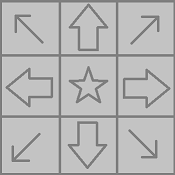
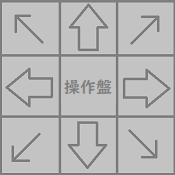
enemy作業

Changed region(s): [[0.3714, 0.3714, 0.6571, 0.6]]

diff --git a/app/src/main/cpp/native-lib.cpp b/app/src/main/cpp/native-lib.cpp
@@ -4,6 +4,8 @@
 #include "enemy.h"
 #include "vector"
 #include "unistd.h"
+#include "player.h"
+
 std::vector<enemy> en;
 int kyara[96];
 int screen=0;
@@ -19,14 +21,16 @@ int android_main( void )
 
     int exit;
     void sce();
+    player player1;
     int right;
     int taskbar;
-int vect
+    int vect;
     int levels;
     int easy;
     int normal;
     int hard;
     int level;
+    int fonts[63];
     SetGraphMode( 1280 , 720, 32,60 ) ;
     // ＤＸライブラリの初期化
     if( DxLib_Init() < 0 ) return -1 ;
@@ -35,7 +39,7 @@ int vect
     easy=LoadGraph("easy.png");
     normal=LoadGraph("normal.png");
     hard=LoadGraph("hardl.png");
-    vect=LoadGraph("vector.png");
+    vect=LoadGraph("vector2.png");
     exit=LoadGraph("exit.bmp");
     right=LoadGraph("right.bmp");
     title=LoadGraph("title.bmp");
@@ -43,9 +47,10 @@ int vect
     taskbar=LoadGraph("taskbar.png");
     start_button=LoadGraph("start.bmp");
     LoadDivGraph("kyara.bmp",96,12,8,48,48,kyara);
+    LoadDivGraph("font2.png",64,16,4,11,18,fonts);
     // 描画先を裏画面にする
     SetDrawScreen( DX_SCREEN_BACK ) ;
-
+    player1=player(kyara[38]);
     // メインループ
     long time;
     long nowtime;
@@ -120,18 +125,24 @@ int vect
                 }
             }
         }else if(screen==2){
+            SetFontSize(50);
+            int FontHandle = CreateFontToHandle( NULL, 16, 0 ) ;
+            AddFontImageToHandle(FontHandle,"0",fonts[47],0,0,16) ;
 
             std::thread th(sce);
             th.detach();
                 while(ProcessMessage() == 0&&screen==2){
-                    frames++;
-                    ClearDrawScreen();
-                    DrawGraph(0, 0, back, true);
-                    DrawRotaGraphF(1106,360,1,0,taskbar,false);
-                    DrawGraph(0, 0, vect, true);
-                    for(int i=0;i<en.size();i++){
-                        en[i].control();
-                    }
+                     frames++;
+                     ClearDrawScreen();
+                     DrawGraph(0, 0, back, true);
+                     player1.control();
+                     DrawRotaGraphF(1106,360,1,0,taskbar,false);
+                    DrawGraph(1000, 500, vect, true);
+                    SetFontSize(70);
+                      DrawFormatStringToHandle(1000,100,GetColor(255,255,255),FontHandle,"%d0000",player1.score);
+                   for(int i=0;i<en.size();i++){
+                         en[i].control();
+                     }
                     ScreenFlip();
 
                 }
@@ -144,7 +155,12 @@ int vect
 }
 void sce(){
     usleep(1000*1000);
-    en.push_back(enemy(50,50,0,kyara[18]));
-    usleep(2000*1000);
-    screen=0;
+    en.push_back(enemy(500,-50,0,kyara[19]));
+    usleep(500*1000);
+    en.push_back(enemy(500,-50,0,kyara[19]));
+    usleep(500*1000);
+    en.push_back(enemy(500,-50,0,kyara[19]));
+    usleep(500*1000);
+    en.push_back(enemy(500,-50,0,kyara[19]));
+    //screen=0;
 }

diff --git a/app/src/main/cpp/player.cpp b/app/src/main/cpp/player.cpp
@@ -1,0 +1,70 @@
+//
+// Created by spyk4 on 2020/11/06.
+//
+
+#include "DxLib.h"
+#include "player.h"
+
+player::player(int kyara) {
+    pkyara=kyara;
+}
+
+player::player() {
+
+}
+
+player::~player() {
+
+}
+
+void player::control() {
+    frames++;
+    if(frames>=10&&GetTouchInputNum()>0){
+        GetTouchInput(0, &tempx, &tempy);
+        if(tempx>20&&tempy>20&&tempx<920&&tempy<720){
+            x=tempx;
+            y=tempy;
+        }else if(1000<tempx&&tempy>500&&tempx<1057&&552>tempy){
+            if(x>=10&&y>=10){
+                x-=4;y-=4;
+            }
+
+        }else if(1057<tempx&&tempy>500&&tempx<1114&&552>tempy){
+            if(y>10){
+                y-=4;
+            }
+
+        }else if(1114<tempx&&tempy>500&&tempx<1171&&552>tempy){
+            if(x<=920&&y>=10){
+                x+=4;y-=4;
+            }
+        }else if(1000<tempx&&tempy>552&&tempx<1057&&612>tempy){
+            if(x>10) {
+                x-=4;
+            }
+        }else if(1057<tempx&&tempy>552&&tempx<1114&&612>tempy){
+
+            //何もなし?
+
+        }else if(1114<tempx&&tempy>552&&tempx<1171&&612>tempy){
+            if(x<920){
+                x+=4;
+            }
+        }else if(1000<tempx&&tempy>612&&tempx<1057&&664>tempy){
+            if(x>10&&y<720) {
+                x -= 4;
+                y += 4;
+            }
+        }else if(1057<tempx&&tempy>612&&tempx<1114&&664>tempy){
+            if(y<720){
+                y+=4;
+            }
+        }else if(1114<tempx&&tempy>612&&tempx<1174&&664>tempy){
+            if(x<920&&y<720){
+                x+=4;y+=4;
+            }
+        }
+    }
+
+    DrawRotaGraphF(x,y,1,0,pkyara,1);
+}

diff --git a/app/src/main/cpp/enemy.cpp b/app/src/main/cpp/enemy.cpp
@@ -9,11 +9,26 @@ enemy::enemy(){
 enemy::enemy(int x,int y,int type,int kyara){
     graph=kyara;
     enemy::x=x;
+    enemy::type=type;
     enemy::y=y;
 };
 bool enemy::control(){
-    DrawGraph(x,y,graph,0);
-    return true;
+    ene_frame+=1;
+    switch(type){
+        case 0:
+            if(ene_frame<=5){
+                enemy_vector.x=1;
+                enemy_vector.y=2;
+            }else if(ene_frame==40){
+                enemy_vector.y=1;
+                enemy_vector.x=-1;
+            }
+            y+=enemy_vector.y;
+            x+=enemy_vector.x;
+            DrawRotaGraphF(x,y,1.2,0,graph,1);
+            break;
+    }
+   return true;
 }
 enemy::~enemy() {
 

diff --git a/app/src/main/cpp/player.h b/app/src/main/cpp/player.h
@@ -1,0 +1,24 @@
+//
+// Created by spyk4 on 2020/11/06.
+//
+#include "DxLib.h"
+#ifndef TEST_DXLIB_PLAYER_H
+#define TEST_DXLIB_PLAYER_H
+
+
+class player {
+public:
+    long score=0;
+    long frames=0;
+    int tama_pushing=0;
+    int x=500,y=500;
+    int tempx=0,tempy=0;
+    player();
+    void control();
+    player(int kyara);
+    int pkyara;
+    ~player();
+};
+
+
+#endif //TEST_DXLIB_PLAYER_H

diff --git a/app/src/main/cpp/enemy.h b/app/src/main/cpp/enemy.h
@@ -13,9 +13,10 @@ class enemy {
 public:
 enemy();
 int x,y;
+int type;
 int graph;
+int ene_frame;
 int gazo=LoadGraph("exit.bmp");
-
 //vector<kome>;
 VECTOR enemy_vector;
 enemy(int x,int y,int type, int graph);
